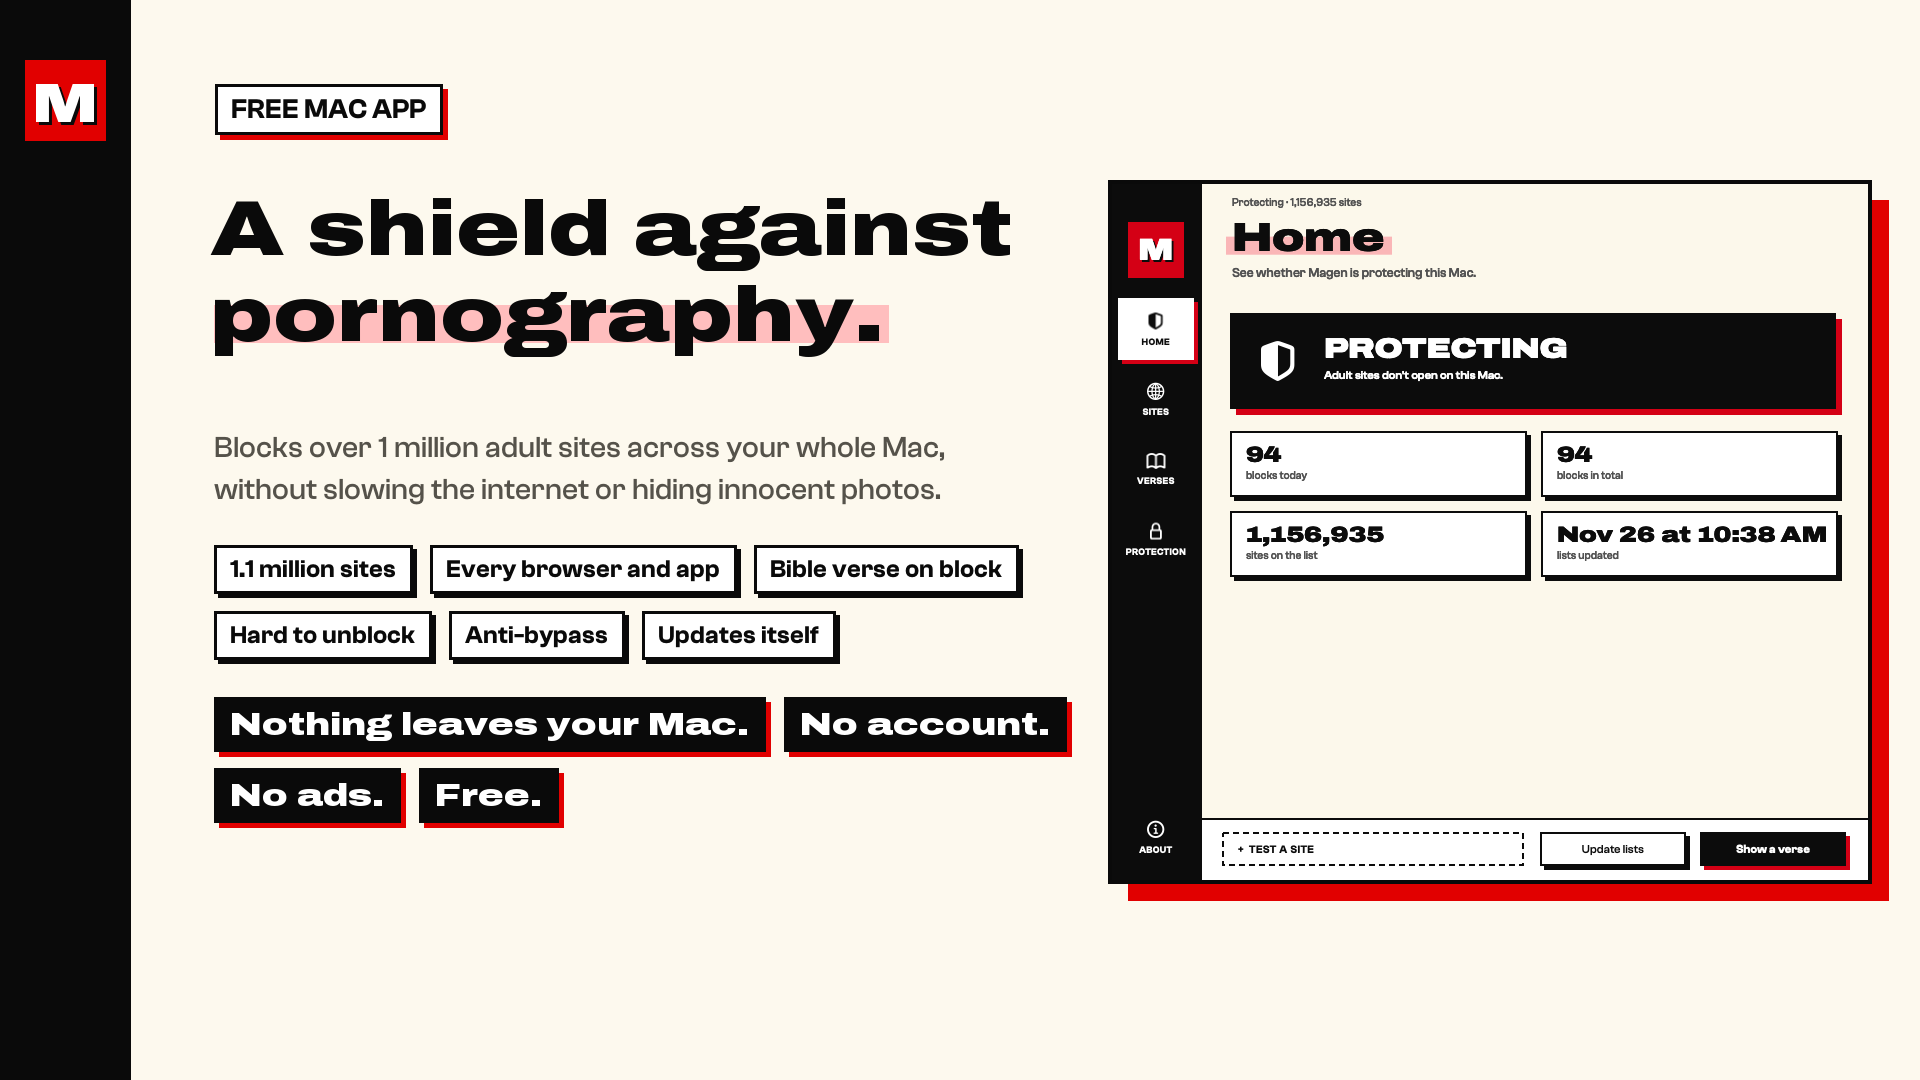
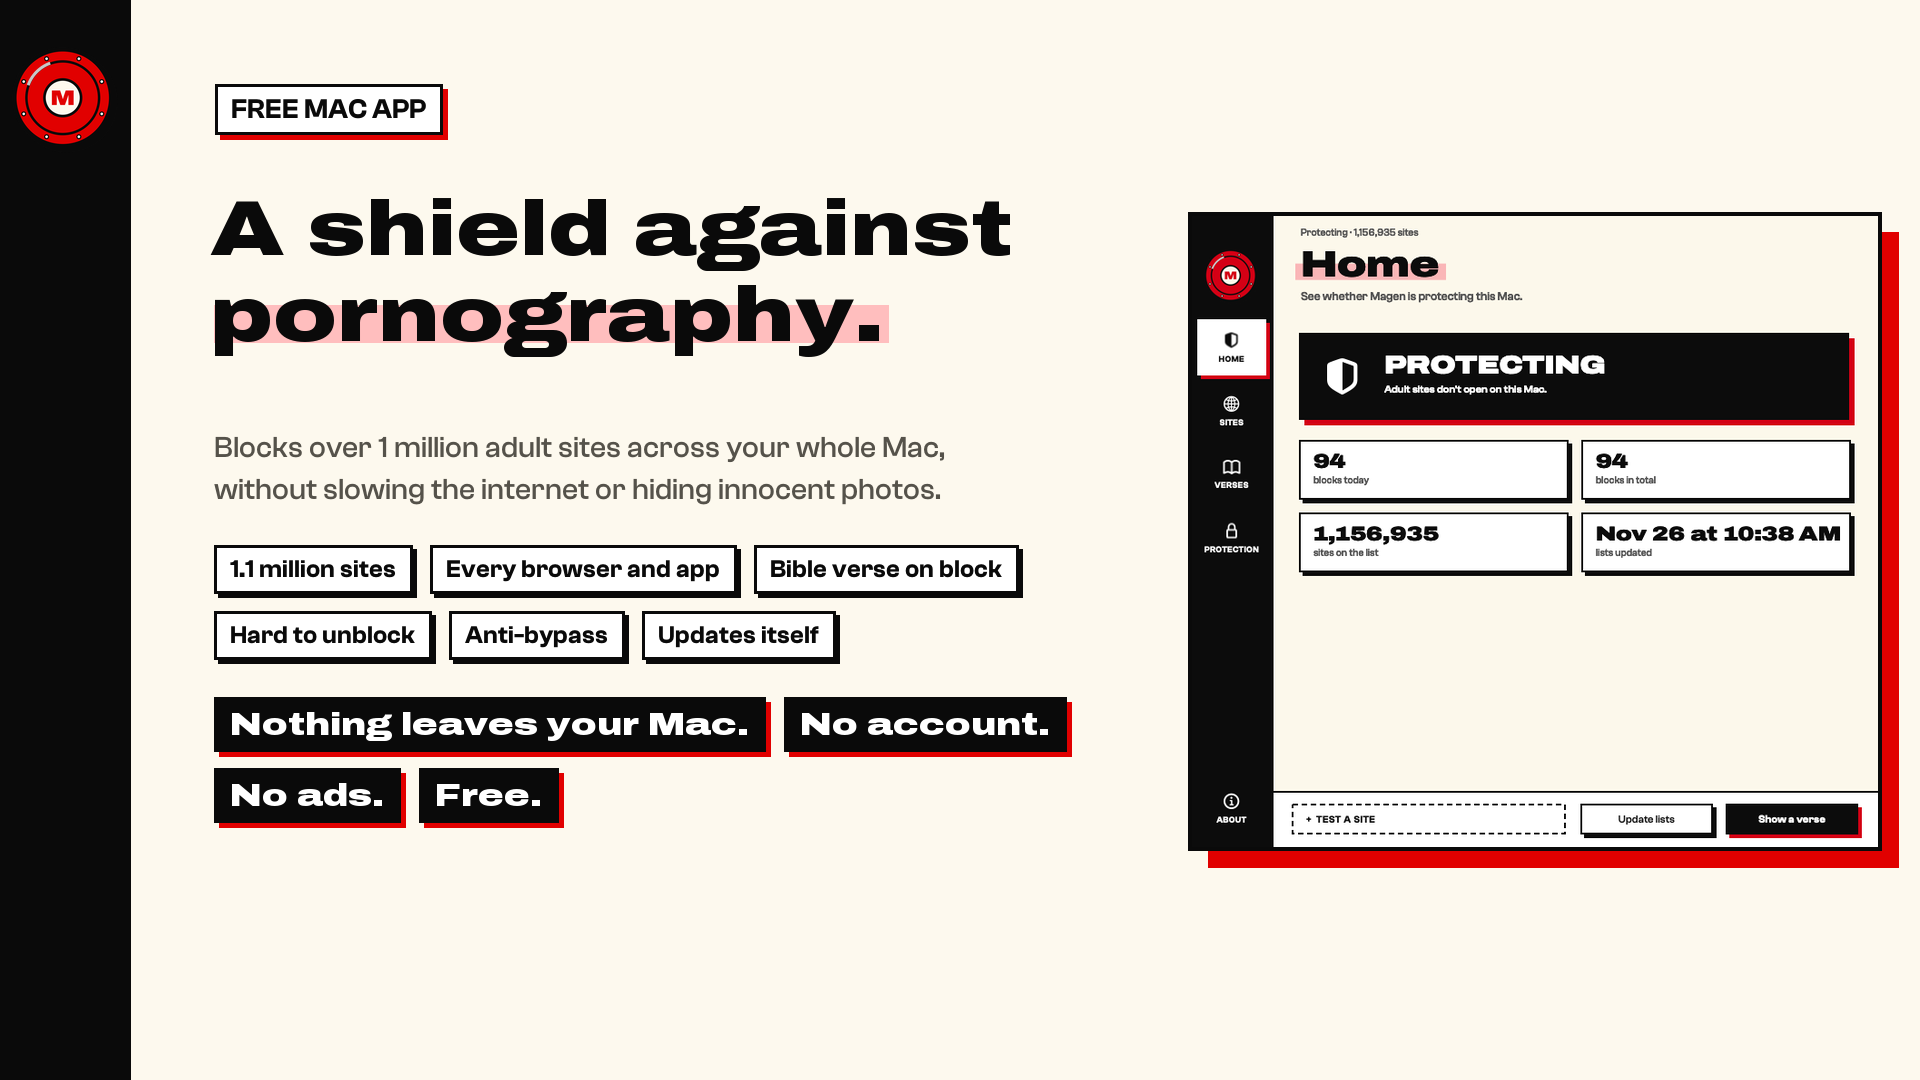
Ícone novo: broquel com M (estilo do ícone do Pauta)
- Resources/icone: desenho (desenhar_icone.py) e PNGs; o .icns sai daí
- Escudo no topo do trilho, favicon e logo do site, capas refeitas

Changed region(s): [[0.5625, 0.1528, 1.0, 0.8556], [0.0, 0.0306, 0.0625, 0.1528]]

diff --git a/Sources/MagenBar/MainWindow.swift b/Sources/MagenBar/MainWindow.swift
@@ -127,17 +127,21 @@ final class MainWindow: NSObject, NSWindowDelegate {
         let rail = FlippedView(frame: NSRect(x: 0, y: 0, width: R, height: H))
         rail.fill = Theme.ink
         root.addSubview(rail)
-        let tile = FlippedView(frame: NSRect(x: (R - 56) / 2, y: 40, width: 56, height: 56))
-        tile.fill = Theme.red
-        let m = Theme.label("M", size: 30, align: .center, wide: true)
-        m.font = Theme.wide(30); m.textColor = Theme.paper
-        let mShadow = Theme.label("M", size: 30, align: .center, wide: true)
-        mShadow.font = Theme.wide(30); mShadow.textColor = Theme.ink
-        let mh = m.fittingSize.height
-        mShadow.frame = NSRect(x: 2, y: (56 - mh) / 2 + 2, width: 56, height: mh)
-        m.frame = NSRect(x: 0, y: (56 - mh) / 2, width: 56, height: mh)
-        tile.addSubview(mShadow); tile.addSubview(m)
-        rail.addSubview(tile)
+        // Logo: the buckler with "M" (same picture as the app icon).
+        if let shield = AppIconArt.shield {
+            let logo = NSImageView(frame: NSRect(x: (R - 66) / 2, y: 36, width: 66, height: 66))
+            logo.image = shield
+            logo.imageScaling = .scaleProportionallyUpOrDown
+            rail.addSubview(logo)
+        } else {
+            let tile = FlippedView(frame: NSRect(x: (R - 56) / 2, y: 40, width: 56, height: 56))
+            tile.fill = Theme.red
+            let m = Theme.label("M", size: 30, align: .center, wide: true)
+            m.font = Theme.wide(30); m.textColor = Theme.paper
+            m.frame = NSRect(x: 0, y: (56 - m.fittingSize.height) / 2, width: 56, height: m.fittingSize.height)
+            tile.addSubview(m)
+            rail.addSubview(tile)
+        }
         var ry: CGFloat = 116
         for t in Tab.allCases {
             let b = RailButton(t.title, symbol: t.symbol) { [weak self] in self?.select(t) }

diff --git a/Sources/MagenBar/AppChrome.swift b/Sources/MagenBar/AppChrome.swift
@@ -14,7 +14,20 @@ var appVersion: String { Bundle.main.infoDictionary?["CFBundleShortVersionString
 // MARK: - App icon (Dock and Finder), like Treco's: colored tile, white letter with a black hard shadow
 
 enum AppIconArt {
+    /// Pictures that ship inside the app (Resources/icone): the buckler with "M".
+    static func bundled(_ name: String) -> NSImage? {
+        guard let url = Bundle.main.resourceURL?.appendingPathComponent(name) else { return nil }
+        return NSImage(contentsOf: url)
+    }
+    static var shield: NSImage? { bundled("escudo-512.png") }
+
     static func image(size: CGFloat) -> NSImage {
+        if let img = bundled("icone-1024.png") { return img }
+        return drawn(size: size)
+    }
+
+    /// Old drawn icon (red tile with "M"), used only if the picture is missing.
+    static func drawn(size: CGFloat) -> NSImage {
         NSImage(size: NSSize(width: size, height: size), flipped: false) { _ in
             let k = size / 1024
             let body = NSRect(x: 100 * k, y: 100 * k, width: 824 * k, height: 824 * k)
@@ -48,7 +61,7 @@ enum AppIconArt {
                                            bytesPerRow: 0, bitsPerPixel: 0)!
                 NSGraphicsContext.saveGraphicsState()
                 NSGraphicsContext.current = NSGraphicsContext(bitmapImageRep: rep)
-                image(size: px).draw(in: NSRect(x: 0, y: 0, width: px, height: px))
+                drawn(size: px).draw(in: NSRect(x: 0, y: 0, width: px, height: px))
                 NSGraphicsContext.restoreGraphicsState()
                 let name = scale == 1 ? "icon_\(base)x\(base).png" : "icon_\(base)x\(base)@2x.png"
                 try? rep.representation(using: .png, properties: [:])?.write(to: dir.appendingPathComponent(name))

diff --git a/docs/index.html b/docs/index.html
@@ -13,7 +13,8 @@
 <meta name="twitter:card" content="summary_large_image">
 <link rel="alternate" hreflang="pt-BR" href="https://movemontes.github.io/magen/">
 <link rel="alternate" hreflang="en" href="https://movemontes.github.io/magen/en/">
-<link rel="icon" href="favicon.svg" type="image/svg+xml">
+<link rel="icon" href="escudo.png" type="image/png">
+<link rel="apple-touch-icon" href="icone.png">
 <link rel="preconnect" href="https://fonts.googleapis.com">
 <link rel="preconnect" href="https://fonts.gstatic.com" crossorigin>
 <link href="https://fonts.googleapis.com/css2?family=Archivo:wdth,wght@100..125,400..900&display=swap" rel="stylesheet">
@@ -24,7 +25,7 @@
 
 <div class="top">
   <div class="wrap">
-    <a class="brand" href="./"><span class="mark">M</span><b>MAGEN</b></a>
+    <a class="brand" href="./"><img class="mark-img" src="escudo.png" width="36" height="36" alt=""><b>MAGEN</b></a>
     <nav>
       <a class="hide-sm" href="#como">Como funciona</a>
       <a class="hide-sm" href="#novidades">Novidades</a>

diff --git a/docs/en/index.html b/docs/en/index.html
@@ -13,7 +13,8 @@
 <meta property="og:url" content="https://movemontes.github.io/magen/en/">
 <meta property="og:locale" content="en_US">
 <meta name="twitter:card" content="summary_large_image">
-<link rel="icon" href="../favicon.svg" type="image/svg+xml">
+<link rel="icon" href="../escudo.png" type="image/png">
+<link rel="apple-touch-icon" href="../icone.png">
 <link rel="preconnect" href="https://fonts.googleapis.com">
 <link rel="preconnect" href="https://fonts.gstatic.com" crossorigin>
 <link href="https://fonts.googleapis.com/css2?family=Archivo:wdth,wght@100..125,400..900&display=swap" rel="stylesheet">
@@ -24,7 +25,7 @@
 
 <div class="top">
   <div class="wrap">
-    <a class="brand" href="./"><span class="mark">M</span><b>MAGEN</b></a>
+    <a class="brand" href="./"><img class="mark-img" src="../escudo.png" width="36" height="36" alt=""><b>MAGEN</b></a>
     <nav>
       <a class="hide-sm" href="#how">How it works</a>
       <a class="hide-sm" href="#novidades">What's new</a>

diff --git a/docs/site.css b/docs/site.css
@@ -245,3 +245,6 @@ footer a:hover { color: var(--sky); }
   .btn, .grid .card, .brand .mark { transition: none; }
   .btn:hover, .grid .card:hover, .brand:hover .mark { transform: none; }
 }
+
+/* Logo do Magen: o broquel com M (mesmo desenho do ícone) */
+.brand .mark-img { width: 36px; height: 36px; display: block; }

diff --git a/Resources/icone/desenhar_icone.py b/Resources/icone/desenhar_icone.py
@@ -1,0 +1,66 @@
+# Ícone do Magen: broquel (escudo redondo) com "M", no estilo do ícone do Pauta:
+# quadrado creme, contorno preto grosso, sombra dura, traço de desenho animado.
+# Uso: python3 desenhar_icone.py <pasta de saída> <Archivo-Variable.ttf>
+# Gera icone-1024.png (com o quadrado) e escudo-512.png (só o escudo, fundo transparente).
+# Precisa do Pillow (pip install pillow). Os PNGs prontos ficam no repositório.
+import sys, math
+from PIL import Image, ImageDraw, ImageFont
+out, archivo = sys.argv[1], sys.argv[2]
+
+def draw(with_tile):
+    K = 4                      # desenha 4x maior e reduz (bordas lisas)
+    N = 1024 * K
+    INK=(10,10,10,255); CREAM=(253,249,238,255); RED=(225,0,0,255); DARKRED=(160,0,0,255); WHITE=(255,255,255,255)
+    img = Image.new("RGBA", (N, N), (0,0,0,0)); d = ImageDraw.Draw(img)
+    def s(v): return int(v * K)
+    def circle(cx, cy, r, fill=None, outline=None, width=0):
+        d.ellipse((s(cx-r), s(cy-r), s(cx+r), s(cy+r)), fill=fill, outline=outline, width=s(width) if width else 0)
+
+    # Tile: rounded square, black outline, hard shadow (same grid as Pauta: 824 body in 1024)
+    x0, y0, x1, y1, rad, sh = 100, 100, 880, 880, 170, 46
+    if with_tile:
+        d.rounded_rectangle((s(x0+sh), s(y0+sh), s(x1+sh), s(y1+sh)), radius=s(rad), fill=INK)
+        d.rounded_rectangle((s(x0), s(y0), s(x1), s(y1)), radius=s(rad), fill=INK)
+        d.rounded_rectangle((s(x0+30), s(y0+30), s(x1-30), s(y1-30)), radius=s(rad-30), fill=CREAM)
+
+    cx, cy, R = 490, 490, 255
+    # Shield: hard shadow, black outline, red body, inner rim
+    circle(cx+22, cy+22, R+16, fill=INK)
+    circle(cx, cy, R+16, fill=INK)
+    circle(cx, cy, R-10, fill=RED)
+    circle(cx, cy, R-56, outline=INK, width=13)
+    # Rivets on the rim
+    for i in range(8):
+        a = math.radians(i * 45 + 22.5)
+        rx, ry = cx + math.cos(a) * (R - 31), cy + math.sin(a) * (R - 31)
+        circle(rx, ry, 13, fill=CREAM, outline=INK, width=6)
+    # Shine (cartoon highlight)
+    d.arc((s(cx-R+52), s(cy-R+52), s(cx+R-52), s(cy+R-52)), 200, 250, fill=(255,255,255,200), width=s(16))
+
+    if True:
+        # Boss in the middle with the M
+        circle(cx, cy, 104, fill=INK)
+        circle(cx, cy, 90, fill=CREAM)
+        f = ImageFont.truetype(archivo, s(112)); f.set_variation_by_axes([900, 125])
+        bb = d.textbbox((0, 0), "M", font=f)
+        tw, th = bb[2]-bb[0], bb[3]-bb[1]
+        d.text((s(cx) - tw/2 - bb[0], s(cy) - th/2 - bb[1]), "M", font=f, fill=RED)
+    else:
+        # Face, like Pauta's eighth note: big white eyes, brows, smile
+        for ex in (cx-66, cx+66):
+            d.ellipse((s(ex-46), s(cy-80), s(ex+46), s(cy+36)), fill=WHITE, outline=INK, width=s(12))
+            d.ellipse((s(ex-19), s(cy-48), s(ex+23), s(cy+14)), fill=INK)
+            d.arc((s(ex-42), s(cy-146), s(ex+42), s(cy-84)), 200, 340, fill=INK, width=s(13))
+        d.arc((s(cx-60), s(cy+36), s(cx+60), s(cy+130)), 20, 160, fill=INK, width=s(14))
+
+    img = img.resize((1024, 1024), Image.LANCZOS)
+    if with_tile:
+        img.save(f"{out}/icone-1024.png")
+    else:
+        # Only the shield (with its shadow), cropped square, 512 px.
+        box = (490 - 285, 490 - 285, 490 + 285 + 24, 490 + 285 + 24)
+        img.crop(box).resize((512, 512), Image.LANCZOS).save(f"{out}/escudo-512.png")
+
+draw(True)
+draw(False)
+print("ok")
